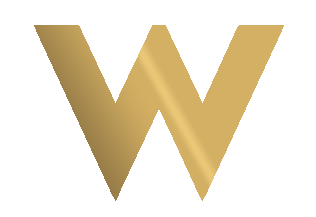
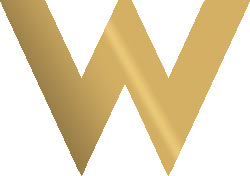
Realigned W and L images and create list-type choices without images

Changed region(s): [[0.0, 0.0, 1.0, 1.0]]

diff --git a/createList/templates/createList/list-type-choices.html b/createList/templates/createList/list-type-choices.html
@@ -1,0 +1,85 @@
+<style>
+    html {
+        height: 100%;
+        width: 100%;
+        background-color: rgb(0, 0, 68);
+    }
+    .primary-container {
+        height: 100%;
+        display: flex;
+        flex-direction: column;
+        justify-content: center;
+        gap: 10px;
+        text-align: center;
+
+    }
+    .body-heading {
+        font-size: 40px;
+    }
+    .all-option-boxes{
+        display: flex;
+        gap: 10px;
+        flex-wrap: wrap;
+    }
+    .single-option-box {
+        width: 250px;
+        height: 250px;
+        border: 1px solid white;
+        border-radius: 8px;
+        display: flex;
+        flex-direction: column;
+        gap: 10px;
+    }
+    .option-name {
+        font-size: 34px;
+        margin-top: 10px;
+    }
+    .option-image-container {
+
+    }
+    .option-image {
+        height: 130px;
+    }
+    .option-description {
+        text-wrap: balance;
+        font-size: 18px;
+    }
+</style>
+<div class="primary-container">
+    <div class="body-heading">How do you want to create your list?</div>
+    <div class="all-option-boxes">
+        <div class="single-option-box">
+            <div class="option-name">
+                Manually Create
+            </div>
+            <div class="option-image-container">
+                <img class="option-image" src="../../../static/images/L-Square.png">
+            </div>
+            <div class="option-description">
+                Create a list from scratch
+            </div>
+        </div>
+        <div class="single-option-box">
+            <div class="option-name">
+                Import File
+            </div>
+            <div class="option-image-container">
+                <img class="option-image" src="../../../static/images/L-Square.png">
+            </div>
+            <div class="option-description">
+                Upload a .csv or .txt file to generate the text automatically
+            </div>
+        </div>
+        <div class="single-option-box">
+            <div class="option-name">
+                Images Only
+            </div>
+            <div class="option-image-container">
+                <img class="option-image" src="../../../static/images/L-Square.png">
+            </div>
+            <div class="option-description">
+                Create a list that uses images and no text
+            </div>
+        </div>
+    </div>
+</div>

diff --git a/createList/templates/createList/list-info.html b/createList/templates/createList/list-info.html
@@ -48,12 +48,12 @@
                     <div class="highlight-position-number">{{forloop.counter}}.</div>
                     <div class="highlight-thing-name">{{thing.name}}</div>
                     <div class="highlight-thing-record">
-                        <img class="W-win" src="{% static 'image/W-Win.png' %}">{{thing.wins}}-<img class="l-lose" src="{% static 'image/L-Lose.png' %}">{{thing.losses}}
+                        <img class="W-win" src="{% static 'images/W-Win.png' %}"><div class="wins-losses-text">{{thing.wins}} -</div><img class="l-lose" src="{% static 'images/L-Lose.png' %}"><div class="wins-losses-text">{{thing.losses}}</div>
                         <div class="past-matchup-sheet">
-                            <div class="past-matchup"><img class="W-win" src="{% static 'image/W-Win.png' %}"> vs. Buttered Bread</div>
-                            <div class="past-matchup"><img class="l-lose" src="{% static 'image/L-Lose.png' %}"> vs. Unbuttered Bread</div>
-                            <div class="past-matchup"><img class="W-win" src="{% static 'image/W-Win.png' %}"> vs. Buttered Bread</div>
-                            <div class="past-matchup"><img class="l-lose" src="{% static 'image/L-Lose.png' %}"> vs. Unbuttered Bread</div>
+                            <div class="past-matchup"><img class="W-win" src="{% static 'images/W-Win.png' %}"> vs. Buttered Bread</div>
+                            <div class="past-matchup"><img class="l-lose" src="{% static 'images/L-Lose.png' %}"> vs. Unbuttered Bread</div>
+                            <div class="past-matchup"><img class="W-win" src="{% static 'images/W-Win.png' %}"> vs. Buttered Bread</div>
+                            <div class="past-matchup"><img class="l-lose" src="{% static 'images/L-Lose.png' %}"> vs. Unbuttered Bread</div>
                         </div>
                     </div>
                 </div>

diff --git a/createList/templates/createList/all-lists.html b/createList/templates/createList/all-lists.html
@@ -3,7 +3,7 @@
 {% block extra_head %}
     <style>
         
-        .main-container {
+        .primary-container {
             --preview-width-min: 300px; /* 260 - 300 */
             --preview-width-max: 350px;
             --preview-height: 200px;
@@ -96,7 +96,7 @@
     </style>
 {% endblock %}
 {% block main %}
-    <main class="main-container">
+    <main class="primary-container">
         <div class="list-grid">
             {% for list in all_lists %} 
                 <a class="list-preview-box" href="{% url 'list_rank' list.slug %}"> 

diff --git a/static/styles/list-info.css b/static/styles/list-info.css
@@ -123,12 +123,20 @@
 }
 
 .past-matchup {
+    text-align: left;
+}
 
+.wins-losses-text {
+    display: inline-block;
 }
 
 .W-win {
-    height: 20px;
+    height: 12px;
+    display: inline-block;
+    margin: 0px 3px;
 }
 .l-lose {
-    height: 20px;
+    height: 12px;
+    display: inline-block;
+    margin: 0px 3px;
 }

diff --git a/createList/templates/createList/create-profile.html b/createList/templates/createList/create-profile.html
@@ -20,7 +20,7 @@
 {% endblock %}
 
 {% block main %}
-	<main class="main-container">
+	<main class="primary-container">
         <form method="post" enctype="multipart/form-data">
             {% csrf_token %}
             <label style="display: none;" for="{{profile_form.username.id_for_label}}">List Title</label>

diff --git a/createList/templates/createList/create-list.html b/createList/templates/createList/create-list.html
@@ -6,7 +6,7 @@
 {% endblock %}
 
 {% block main %}
-	<main class="main-container">
+	<main class="primary-container">
         <form method="post" enctype="multipart/form-data">
             {% csrf_token %}
             {{ thing_forms.management_form }}

diff --git a/createList/templates/createList/base.html b/createList/templates/createList/base.html
@@ -32,7 +32,7 @@
 				Your Lists
 			</div>
 		</header>
-        <main class="body-container">
+        <main class="main-container">
             {% block main %}{% endblock %}
         </main>
     </body>

diff --git a/static/styles/general.css b/static/styles/general.css
@@ -20,7 +20,7 @@ html, body {
     margin: 0;
     height: 100%;
 }
-.body-container {
+.primary-container {
     display: flex;
     flex-direction: column;
     align-items: center;
